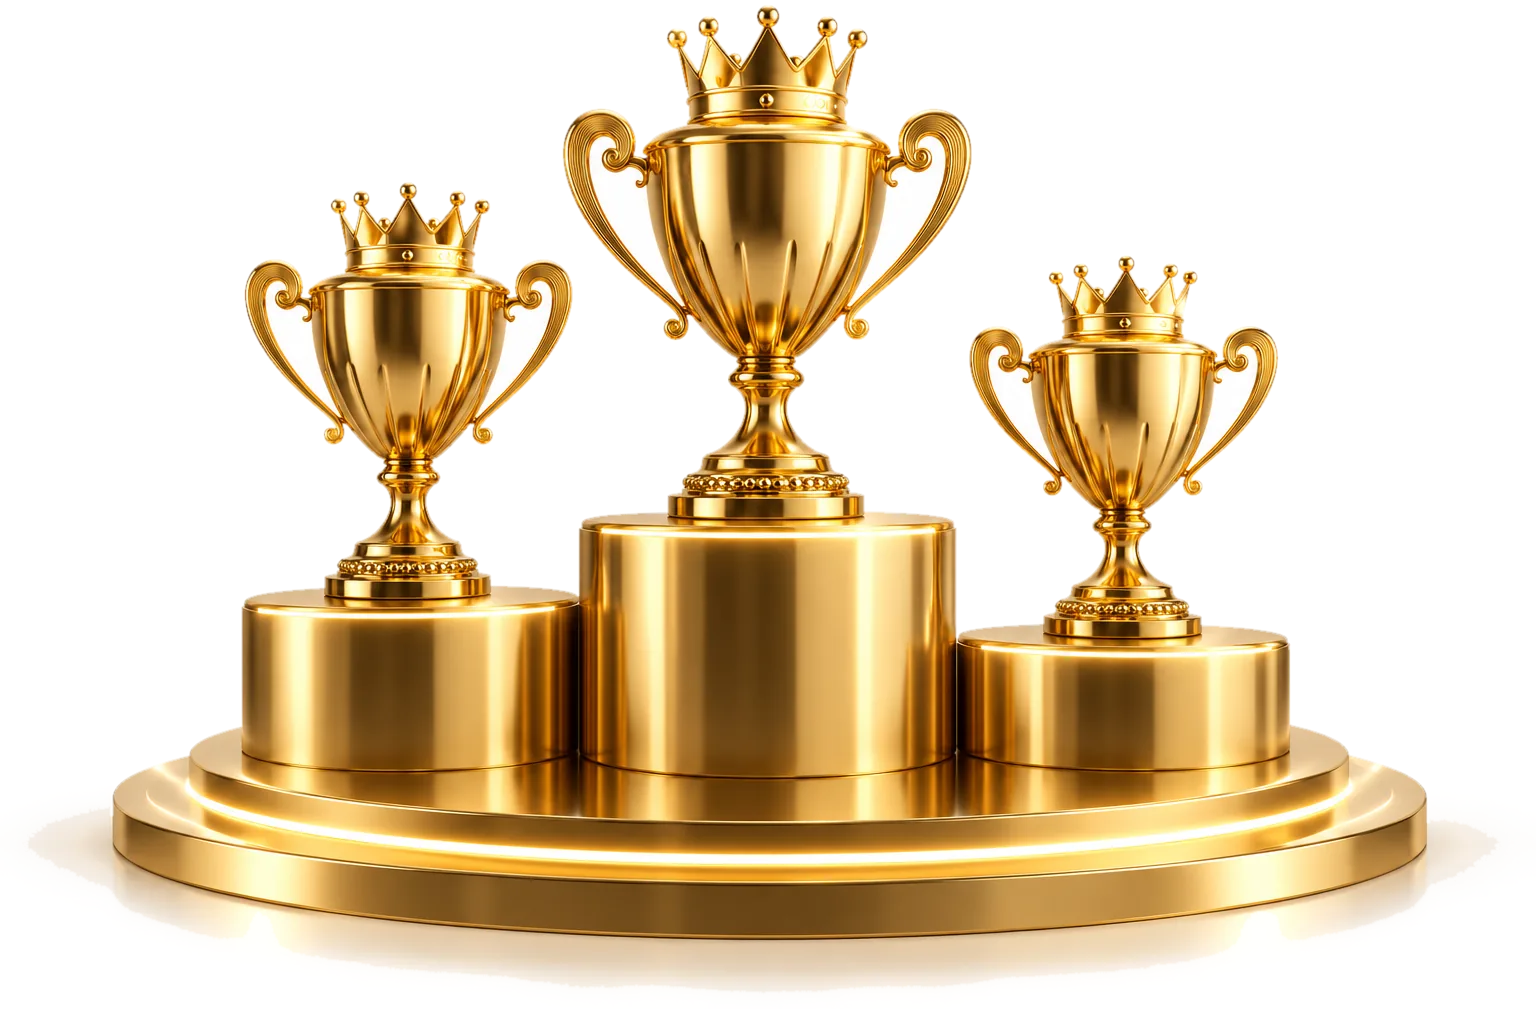
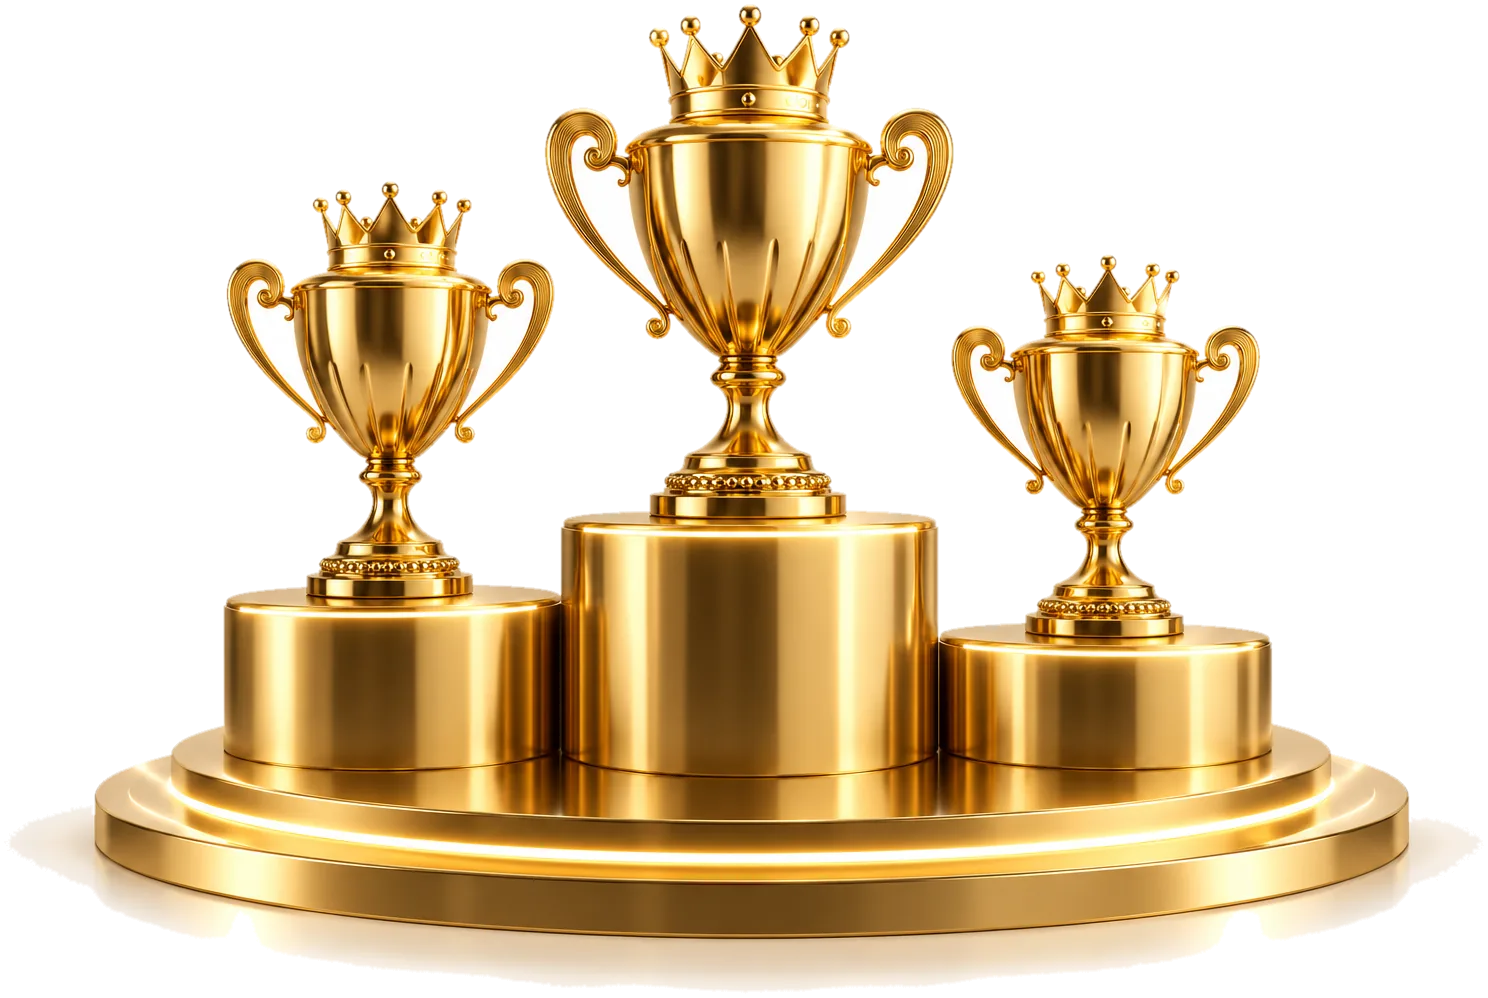
Remove blurred peach background from prizes section
- Drop peach silk-wave layer, neutral warm-grey cream color
- Trophy cutout without residual shadow box on navy panel

Changed region(s): [[0.0, 0.0, 0.9892, 0.994]]

diff --git a/src/components/sections/Prizes.tsx b/src/components/sections/Prizes.tsx
@@ -10,9 +10,8 @@ const forEveryone = [
 
 export default function Prizes() {
   return (
-    <section id="giai-thuong" className="relative overflow-hidden bg-cream py-16 lg:py-24">
-      <Art src="/images/generated/deco-peach-waves.webp" className="pointer-events-none absolute inset-0 h-full w-full object-cover opacity-50" />
-      <div className="container-x relative">
+    <section id="giai-thuong" className="bg-cream py-16 lg:py-24">
+      <div className="container-x">
         <div className="reveal max-w-3xl">
           <Eyebrow>Giải thưởng</Eyebrow>
           <h2 className="h2-section mt-4">

diff --git a/src/app/globals.css b/src/app/globals.css
@@ -10,7 +10,7 @@
   --color-orange-ink: #d4500c;
   --color-orange-soft: #ff9a3c;
   --color-gold: #f5b83d;
-  --color-cream: #fff6ec;
+  --color-cream: #f7f5f1;
   --color-mist: #f3f7fd;
   --color-ink: #0f1f3d;
   --color-muted: #475266;

diff --git a/scripts/postprocess.py b/scripts/postprocess.py
@@ -53,9 +53,7 @@ def cutout(arr: np.ndarray) -> np.ndarray:
     # Viền mềm: alpha tăng dần theo khoảng cách tới vùng nền
     dist = ndimage.distance_transform_edt(~bg)
     alpha = np.clip(dist / 3, 0, 1)
-    # Bóng đổ nhạt sát nền: giữ một phần theo độ đậm
-    soft = np.clip((255 - rgb.min(-1)) / 60, 0, 1)
-    alpha = np.where(bg, soft * 0.6, alpha)
+    alpha = np.where(bg, 0, alpha)
     return np.dstack([rgb, alpha * 255]).astype("uint8")
 
 
